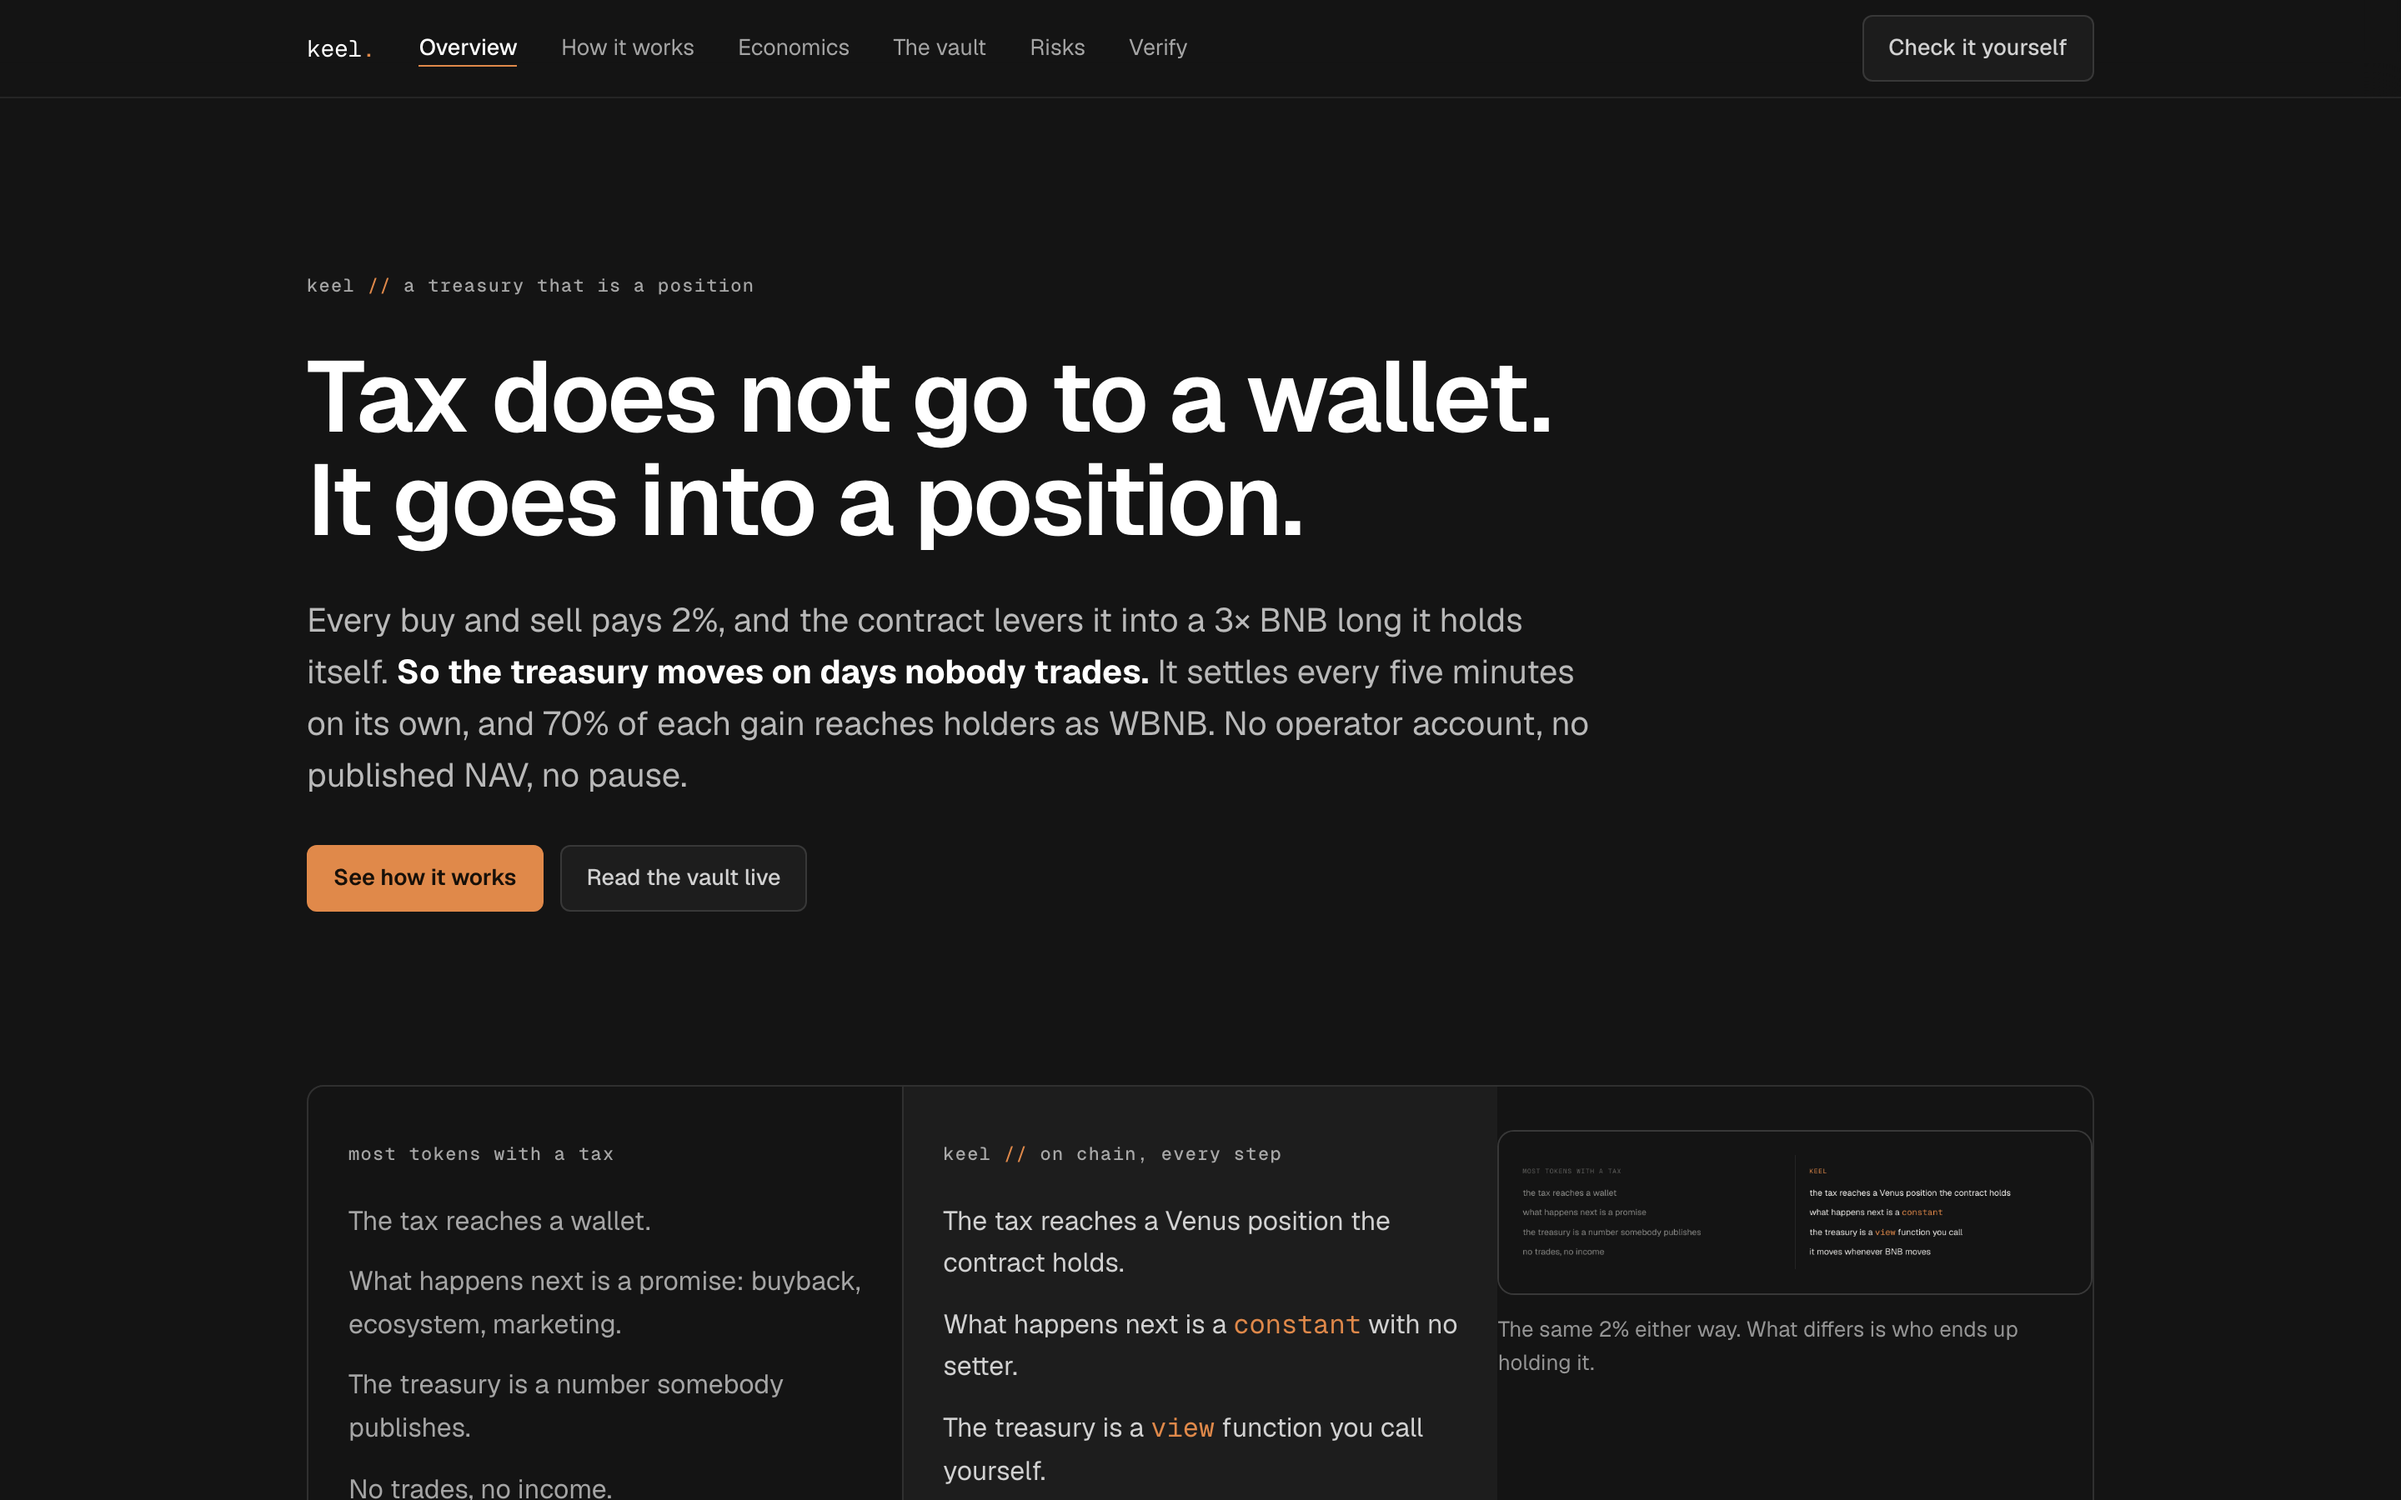
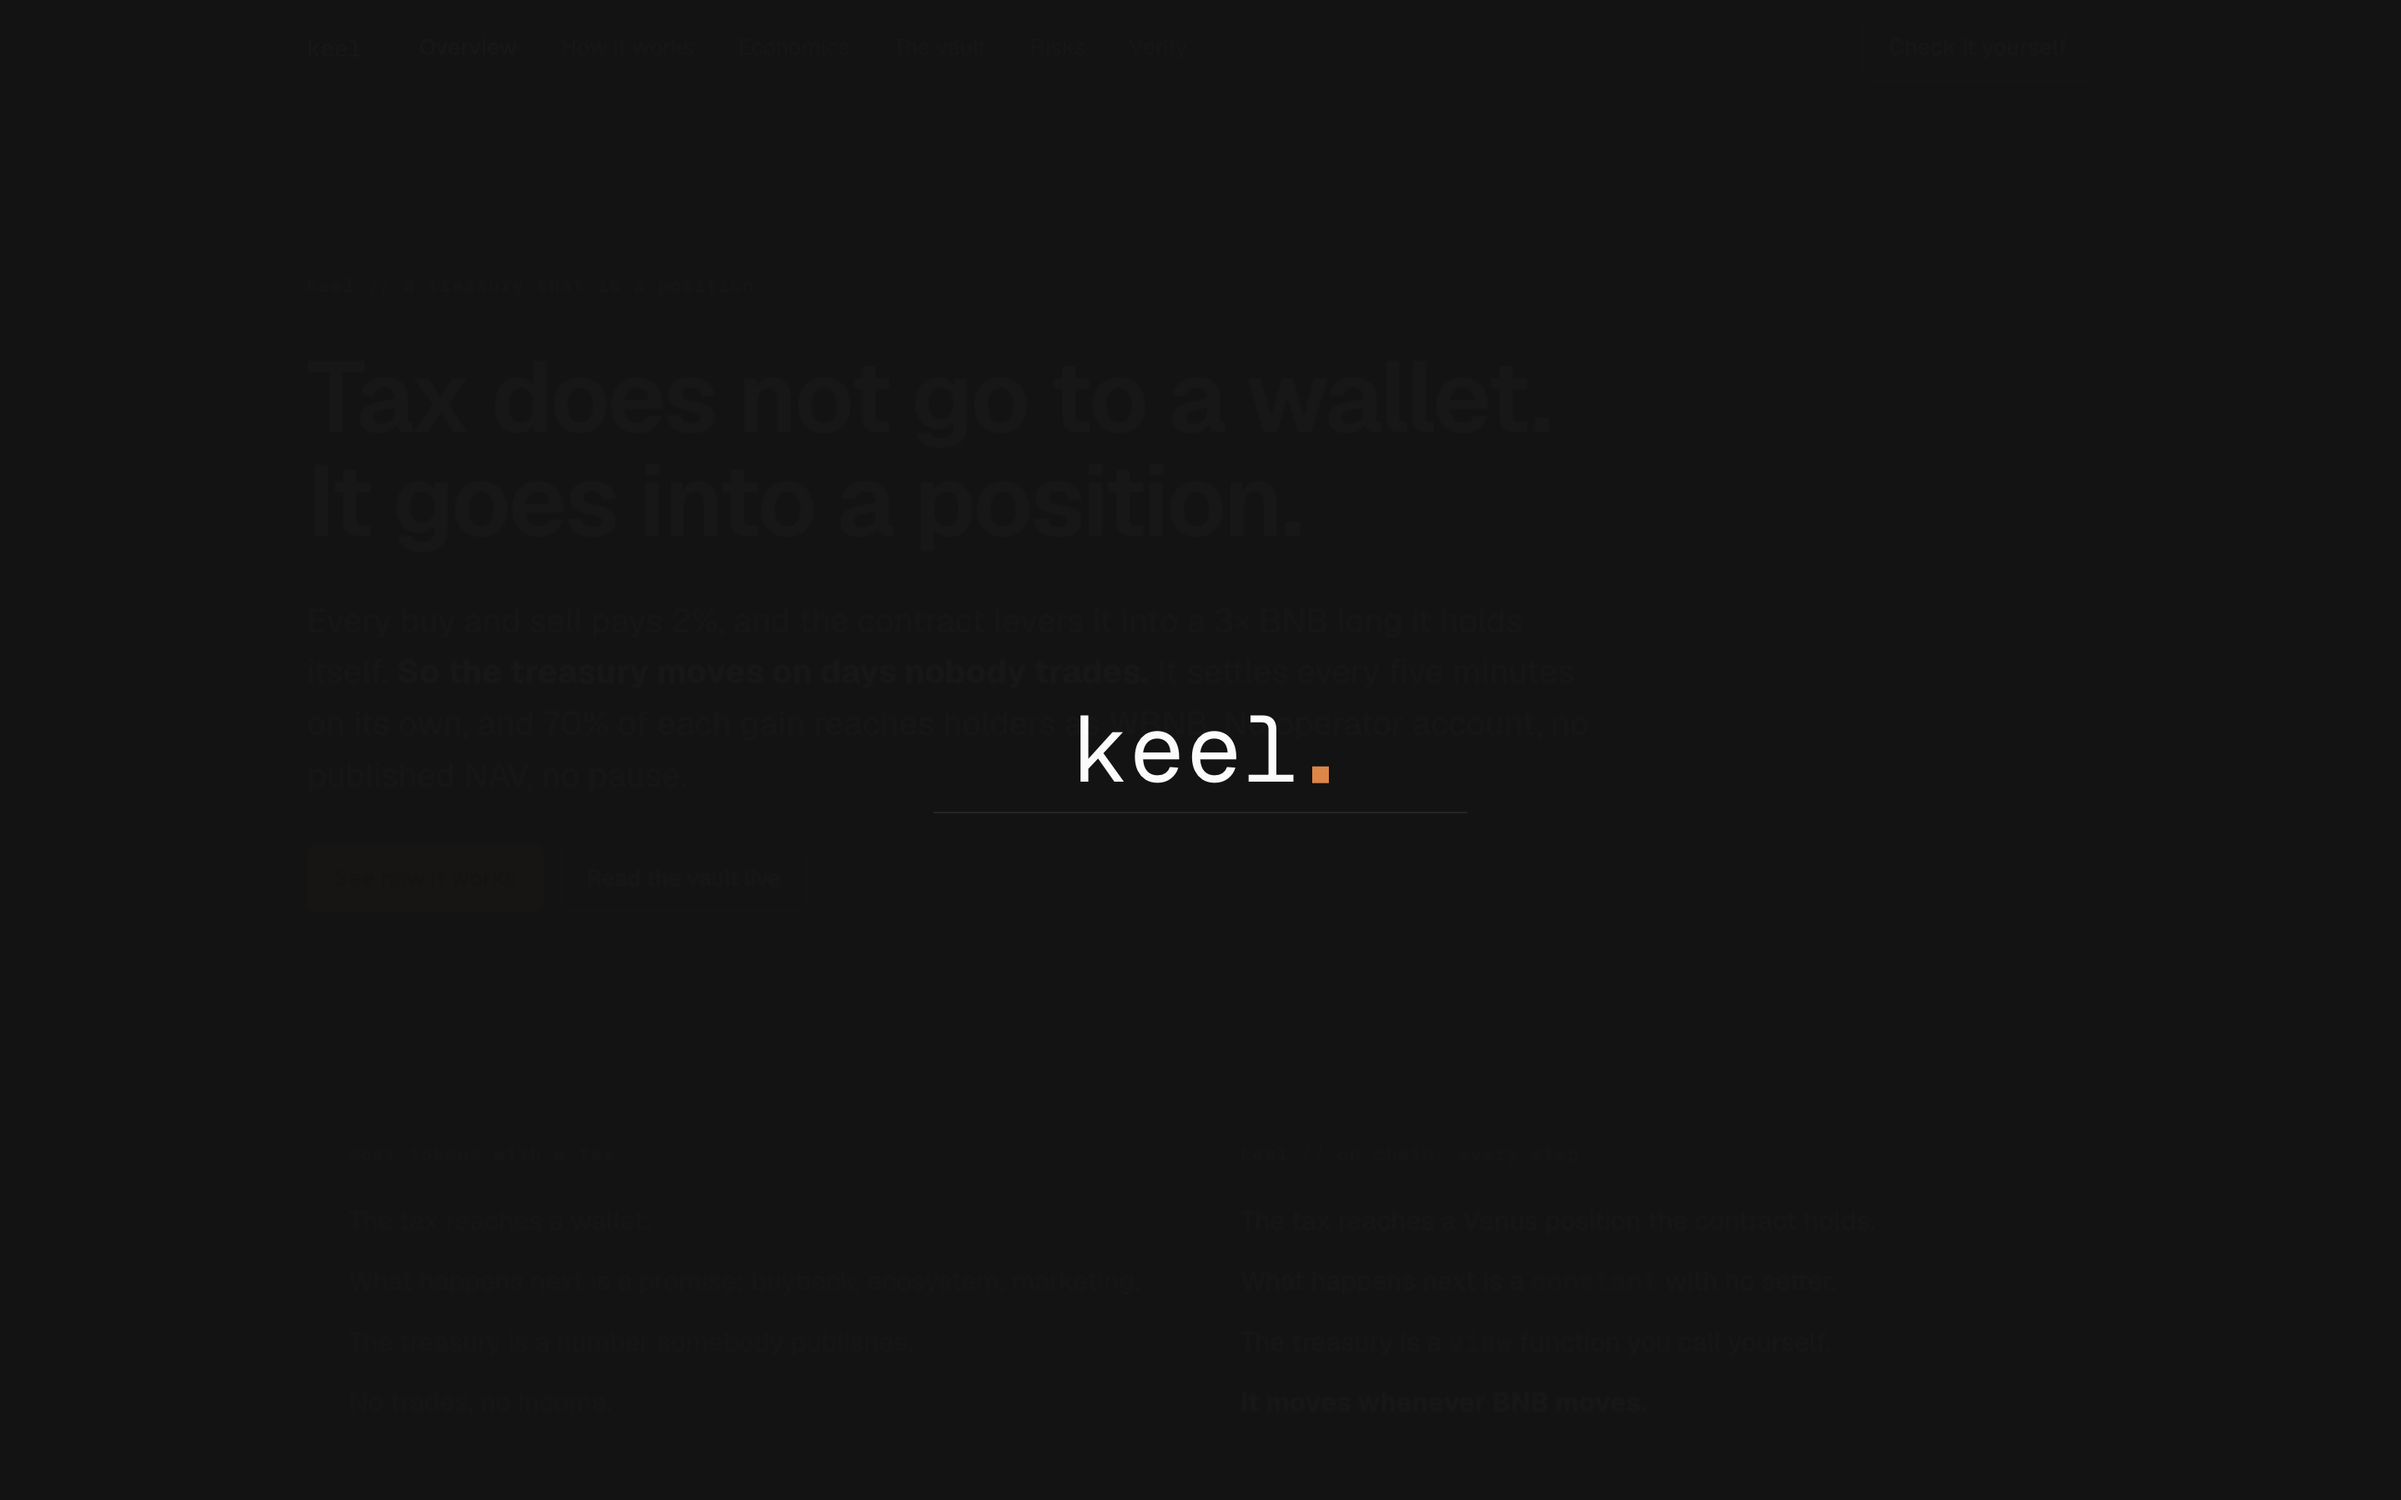
Make the figures visible, and stop measuring decode when the question is visibility
The figures were invisible on the live site and the gate reported eleven passes, because
"decoded" and "visible" are different claims and it was only checking the first. The existing
opacity check skipped them too: it only looks at elements with more than 20 characters of text,
and an image has none.

Two causes. Every figure was authored as `class="fig rise"`, and .rise starts at opacity 0
waiting for an IntersectionObserver. With loading="lazy" that deadlocks: an unloaded image gives
its figure almost no height, a zero-height element never reaches the 0.06 threshold, so it is
never revealed and therefore never loads. constants.png sat at opacity 0 through a full scroll.
And the comparison figure had been placed inside the comparison block itself, where the grid
squeezed it to 357px -- it was also redundant there, since that block already is the picture in
selectable text, so it moved to the economics page.

The gate now walks each image's ancestors for the element actually hiding it, and checks that a
full-width figure fills at least 85% of its column -- a ratio rather than a pixel floor, which
called every mobile render squeezed on the first attempt.

The reveal deadlock resists a behavioural check: the gate's own scrolling fires the observer
that a real page never fires. So it is a source rule instead -- no figure may carry .rise --
which is proven red by putting the class back.

diff --git a/site/index.html b/site/index.html
@@ -89,10 +89,6 @@
         </ul>
       </div>
     
-      <figure class="fig rise">
-        <img src="/assets/fig/wallet-vs-position.png" alt="A two column comparison: on the left, tax reaching a wallet and a treasury somebody publishes; on the right, tax reaching a Venus position the contract holds and a treasury anyone can read." loading="lazy" decoding="async" width="1000">
-        <figcaption>The same 2% either way. What differs is who ends up holding it.</figcaption>
-      </figure>
 </div>
     <p style="margin:14px 0 0;font-size:13.5px;color:var(--fg-quaternary)">
       The cost of that, stated here rather than in a footnote: 3&times; is liquidated by a 16.7% move
@@ -138,7 +134,7 @@
       <span class="tag">the argument <span class="sep" aria-hidden="true">//</span> where tax goes</span>
       <h2>Tax has to go somewhere</h2>
     </div>
-      <figure class="fig rise">
+      <figure class="fig">
         <img src="/assets/fig/tax-route.png" alt="Where each 2% of tax goes: 80% into the vault to build the leveraged position, 20% straight to holders, with burn and liquidity both at zero." loading="lazy" decoding="async" width="1000">
         <figcaption>Fixed at launch and summing to 10000 bps. Burning and liquidity are set to zero, so only two legs are drawn.</figcaption>
       </figure>
@@ -179,7 +175,7 @@
         schedule, and each wake picks a single job by priority &mdash; because a callback has a
         2,000,000 gas ceiling and a build already costs 1.2 million of it.</p>
     </div>
-      <figure class="fig rise">
+      <figure class="fig">
         <img src="/assets/fig/priority-chain.png" alt="The five branches evaluated on every wake, in order: rescue, deploy, harvest, rebalance, or book the next slot and stop." loading="lazy" decoding="async" width="1000">
         <figcaption>One job per wake. The first branch that is true wins, and the vault stops there.</figcaption>
       </figure>
@@ -207,7 +203,7 @@
       <span class="tag">what is fixed <span class="sep" aria-hidden="true">//</span> constants with no setter</span>
       <h2>Four numbers nobody can move</h2>
     </div>
-      <figure class="fig rise">
+      <figure class="fig">
         <img src="/assets/fig/constants.png" alt="The four constants with no setter: 3x target leverage, 1.20 health floor, 30% project share, five minute trigger interval." loading="lazy" decoding="async" width="1000">
         <figcaption>Declared <code class="mono">constant</code>. There is no setter, no role and no governance path to any of them.</figcaption>
       </figure>

diff --git a/site/risks/index.html b/site/risks/index.html
@@ -88,7 +88,7 @@
 <section>
   <div class="wrap">
     <div class="sec-head"><span class="tag">the list <span class="sep" aria-hidden="true">//</span> worst first</span><h2>Everything that can hurt you</h2></div>
-      <figure class="fig rise">
+      <figure class="fig">
         <img src="/assets/fig/liquidation-distance.png" alt="A scale of BNB moves against the position, marking liquidation at a 16.7% drop." loading="lazy" decoding="async" width="1000">
         <figcaption>The cost of a treasury that moves when nobody trades, drawn to scale.</figcaption>
       </figure>
@@ -154,7 +154,7 @@
 <section>
   <div class="wrap">
     <div class="sec-head"><span class="tag">what is fixed <span class="sep" aria-hidden="true">//</span> and therefore unfixable</span><h2>Four things nobody can change after launch</h2></div>
-      <figure class="fig rise">
+      <figure class="fig">
         <img src="/assets/fig/why-three.png" alt="Health at each leverage under Venus's 80% collateral factor: 1.60 at 2x, 1.20 at 3x, 1.07 at 4x, and 1.00 at 5x, which is liquidation itself." loading="lazy" decoding="async" width="1000">
         <figcaption>Health is <code class="mono">CF &times; L / (L &minus; 1)</code>. At Venus's 0.80, five times is not aggressive &mdash; it is the liquidation point.</figcaption>
       </figure>
@@ -182,7 +182,7 @@
     <p class="lede" style="margin:14px auto 22px">Including the numbers that make this look worse.</p>
     <a class="btn primary" href="/verify/">How to verify</a>
   </div>
-      <figure class="fig rise">
+      <figure class="fig">
         <img src="/assets/fig/beacon-guardian.png" alt="Who can change what: the project, deployer and holders can change nothing; the Flap Guardian can replace the implementation behind the beacon." loading="lazy" decoding="async" width="1000">
         <figcaption>The upgrade path is real and it is stated rather than left out. The deployer never held it.</figcaption>
       </figure>

diff --git a/site/how-it-works/index.html b/site/how-it-works/index.html
@@ -83,7 +83,7 @@
 <section>
   <div class="wrap">
     <div class="sec-head"><span class="tag">step 1 <span class="sep" aria-hidden="true">//</span> the trade</span><h2>2% leaves the trade as token</h2></div>
-      <figure class="fig rise">
+      <figure class="fig">
         <img src="/assets/fig/leverage-stack.png" alt="One BNB of tax becomes 3.00 BNB supplied to Venus against 2.00 BNB of debt, leaving 1.00 BNB of net value at 3x exposure." loading="lazy" decoding="async" width="1000">
         <figcaption>One BNB of tax, at target. Three supplied, two owed, one of net value carrying 3&times; exposure.</figcaption>
       </figure>
@@ -99,7 +99,7 @@
 <section>
   <div class="wrap">
     <div class="sec-head"><span class="tag">step 2 <span class="sep" aria-hidden="true">//</span> conversion</span><h2>Flap converts a batch to BNB</h2></div>
-      <figure class="fig rise">
+      <figure class="fig">
         <img src="/assets/fig/flash-sequence.png" alt="The four steps of building the position in one transaction: flash WBNB, supply to Venus, borrow USDT, swap and repay." loading="lazy" decoding="async" width="1000">
         <figcaption>Venus checks collateral before the borrowed funds become collateral, so the flash loan is the only ordering that opens the position at all.</figcaption>
       </figure>

diff --git a/site/economics/index.html b/site/economics/index.html
@@ -80,7 +80,12 @@
 <section>
   <div class="wrap">
     <div class="sec-head"><span class="tag">layer one <span class="sep" aria-hidden="true">//</span> the tax</span><h2>2% per trade, split four ways</h2></div>
-      <figure class="fig rise">
+      <figure class="fig">
+        <img src="/assets/fig/wallet-vs-position.png" alt="A two column comparison: on the left, tax reaching a wallet and a treasury somebody publishes; on the right, tax reaching a Venus position the contract holds and a treasury anyone can read." loading="lazy" decoding="async" width="1000">
+        <figcaption>The same 2% either way. What differs is who ends up holding it.</figcaption>
+      </figure>
+
+      <figure class="fig">
         <img src="/assets/fig/split-70-30.png" alt="Every harvest splits 70% to holders as WBNB dividends and 30% to the project." loading="lazy" decoding="async" width="1000">
         <figcaption>Holders take 2.33&times; whatever the project takes, on every harvest, forever.</figcaption>
       </figure>

diff --git a/site/verify/index.html b/site/verify/index.html
@@ -86,7 +86,7 @@ pre.code .g { color: var(--positive); }
       <span class="tag">the method <span class="sep" aria-hidden="true">//</span> why not a fork</span>
       <h2>The position checks run as one atomic call</h2>
     </div>
-      <figure class="fig rise">
+      <figure class="fig">
         <img src="/assets/fig/verify-surface.png" alt="The view functions a reader can call themselves: nav, leverage, health, pendingAction and the project share constant." loading="lazy" decoding="async" width="1000">
         <figcaption>All view functions. Call them against the chain and you have priced the treasury yourself.</figcaption>
       </figure>

diff --git a/site/vault/index.html b/site/vault/index.html
@@ -76,7 +76,7 @@
 <section>
   <div class="wrap">
     <div class="sec-head"><span class="tag">the panel <span class="sep" aria-hidden="true">//</span> what will be here</span><h2>Six readings, all views</h2></div>
-      <figure class="fig rise">
+      <figure class="fig">
         <img src="/assets/fig/verify-surface.png" alt="The view functions a reader can call themselves: nav, leverage, health, pendingAction and the project share constant." loading="lazy" decoding="async" width="1000">
         <figcaption>Every number on this page comes from one of these calls.</figcaption>
       </figure>
